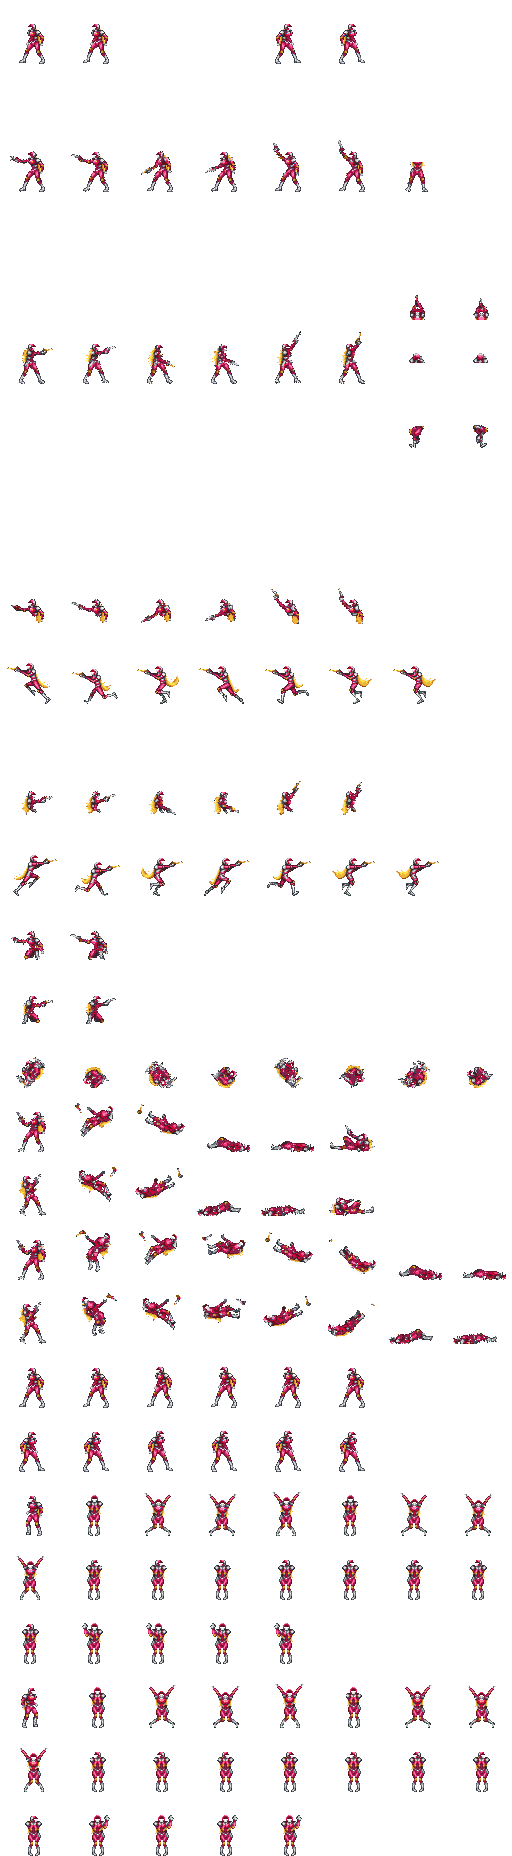
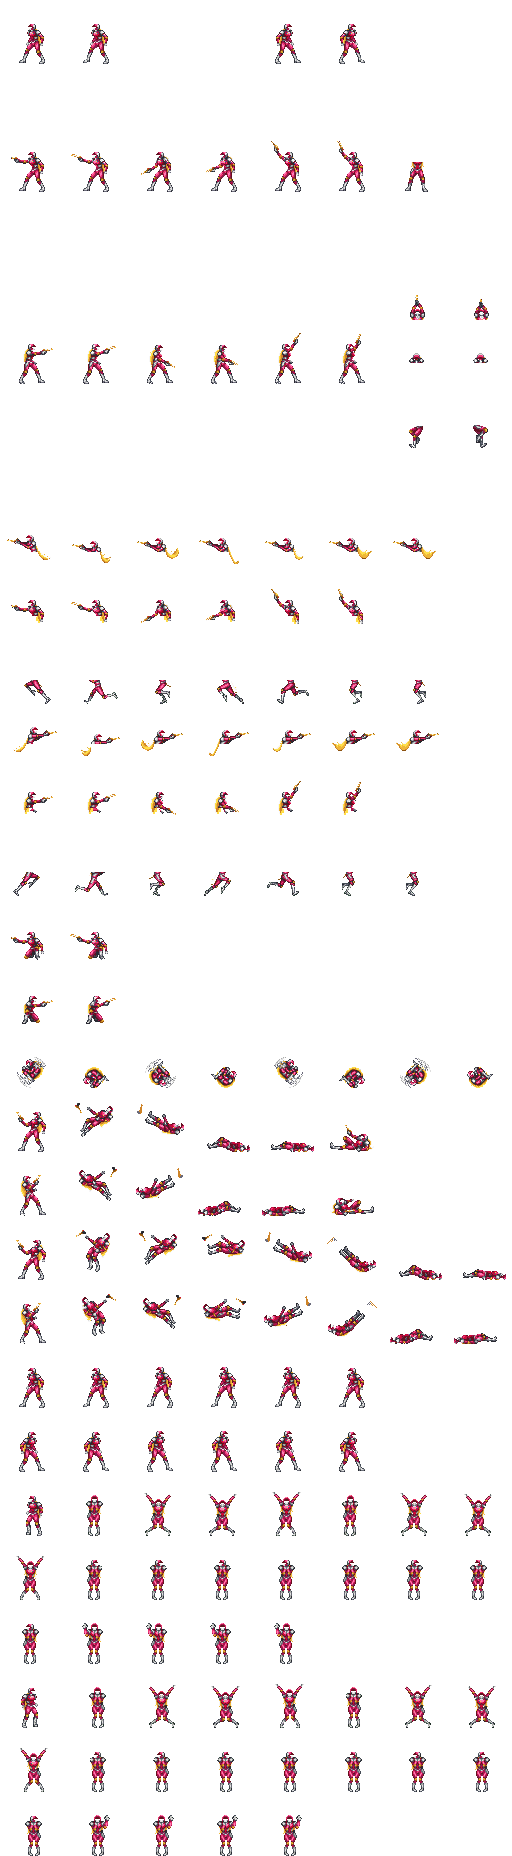
April: learned recovery of the sheet (U-Net + joint palette solve), diagonal shots while running
- assets/april.png rebuilt from heroes/output/april_master_learned.png: the archived 700 px
  sheet is a PIL-style bicubic reduction (a = -0.5, 700/1024 x 1137/1664, no phase; the six
  native idle frames in it match to RMSE 2.9), so heroes/learn_inverse.py trains a U-Net on
  the game's own 64x64 sprites degraded with exactly that operator, then solves the whole
  1024x1664 master jointly on the GPU as annealed softmaxes over April's 20-colour palette
  fitted to the AVIF with the net as a weak prior (idle cells: 17 % pixel-identical with the
  old inverse resampling, 94 % now).  Aims, crouch, slide, somersault and deaths are pixel art
  again; the ICM per-cell refinement is dropped (it only found worse local minima)
- run frames are split at the master's hip line (row 40) into legs cells and torso overlay
  cells (torso = upper half + the whole ponytail), so plain running composes back to the exact
  clip pixels while up / down diagonal aims on the move draw the sheet's aim torsos over the
  clip legs: walk_aim_ov becomes WALK_AIM_ALL / DIAG / NONE (Fireball keeps ALL, April DIAG)
- Character.ov_sync (April): a torso overlay with the legs' frame count and rate starts in
  phase with the legs, so the run torso always sits on its own legs frame after an aim

diff --git a/src/character.c b/src/character.c
@@ -32,7 +32,7 @@ bool character_init(Character *c, uint32_t crhc_id, bool enemy)
     c->hp_max = rd32(d + 0xadc);
     { const PackEntry *se = packs_find(c->sprite_id); if (se && se->type == RES_SPRITE) c->spr = sprite_get(c->sprite_id); else c->cb = cblock_get(c->sprite_id); }
     c->torso_bob = true;
-    c->bored_anim[0] = c->bored_anim[1] = -1; c->walk_aim_ov = true;
+    c->bored_anim[0] = c->bored_anim[1] = -1; c->walk_aim_ov = WALK_AIM_ALL; c->ov_sync = false;
     hero_apply(c);                 /* player heroes only: recreated sheets (April) replace the pack's cblock + patch the table */
     c->body.ox = c->box_ox; c->body.oy = c->box_oy; c->body.hx = c->box_hx; c->body.hy = c->box_hy;
     character_reset(c, enemy);
@@ -106,7 +106,13 @@ void character_set_anim(Character *c, int anim)
 void character_set_overlay(Character *c, int anim)
 {
     if (anim < 0 || anim >= CHAR_MAX_ANIMS) return;
-    if (c->overlay != anim) { c->overlay = (uint8_t)anim; c->ov_frame = c->anims[anim].first; c->ov_t = 0; }
+    if (c->overlay != anim) {
+        const AnimDef *o = &c->anims[anim], *a = &c->anims[c->anim];
+        c->overlay = (uint8_t)anim; c->ov_frame = o->first; c->ov_t = 0;
+        if (c->ov_sync && o->last - o->first == a->last - a->first && o->frame_time == a->frame_time) {
+            c->ov_frame = o->first + (c->frame - a->first); c->ov_t = c->anim_t;
+        }
+    }
     uint32_t af = c->anim_flags[anim];
     if (af & 1) {
         float mx = c->muzzle[anim][0], my = c->muzzle[anim][1], x, y;
@@ -270,7 +276,7 @@ void player_resolve(Character *c, float dt)
         break;
     case CS_WALK:
         body = L ? 0x24 : 0x25; vx = L ? -c->speed : c->speed;
-        if (!c->walk_aim_ov) ov = L ? 0x26 : 0x27;
+        if (c->walk_aim_ov == WALK_AIM_NONE || (c->walk_aim_ov == WALK_AIM_DIAG && aim != AIM_UL && aim != AIM_DL && aim != AIM_UR && aim != AIM_DR)) ov = L ? 0x26 : 0x27;
         else if (L) ov = shoot ? (aim == 1 ? 0x1d : aim == 7 ? 0x1e : 0x1c) : (aim == 1 ? 0x15 : aim == 7 ? 0x16 : 0x26);
         else   ov = shoot ? (aim == 3 ? 0x20 : aim == 5 ? 0x21 : 0x1f) : (aim == 3 ? 0x18 : aim == 5 ? 0x19 : 0x27);
         c->flags &= ~CF_CROUCH;

diff --git a/src/heroes.c b/src/heroes.c
@@ -37,7 +37,7 @@ const char *hero_name(int character)
 }
 
 /* animation table changes: April's clip has a 6-frame idle sway followed by a 20-frame crouch + jumping jacks + wave
- * (10 fps; played once after 10 s of idling), 7 whole run frames (kept while aiming / shooting on the move) and 8
+ * (10 fps; played once after 10 s of idling), 7 run frames (legs + torso overlay cells, both from the clip) and 8
  * death frames.  The "alert" pose (anims 4/7, held for
  * alert_time after shooting / landing) is the sway itself: her sheet has no clean alert art. */
 typedef struct { int anim, first, last, loop; float frame_time; } AnimPatch;
@@ -48,7 +48,7 @@ static const AnimPatch APRIL_ANIMS[] = {
     { 4, 168, 173, 168, 0.10f }, { 7, 176, 181, 176, 0.10f },     /* alert L / R = idle */
     { APRIL_BORED_L, 184, 204, 204, 0.10f }, { APRIL_BORED_R, 208, 228, 228, 0.10f },   /* bored jump + wave L / R */
     { 36, 80, 86, 80, 0.10f }, { 37, 104, 110, 104, 0.10f },      /* run legs L / R */
-    { 38, 64, 70, 64, 0.10f }, { 39, 88, 94, 88, 0.10f },         /* run torso overlays L / R */
+    { 38, 64, 70, 64, 0.10f }, { 39, 88, 94, 88, 0.10f },         /* run torso overlays L / R (the clip frames' upper half + ponytail) */
     { 50, 152, 159, 159, 0.10f }, { 51, 160, 167, 167, 0.10f },   /* death L / R */
     { 52, 168, 168, 168, 4.0f },
 };
@@ -90,7 +90,8 @@ bool hero_apply(Character *c)
     if (!cb) return false;
     c->cb = cb; c->spr = NULL;
     c->torso_bob = false;      /* Fireball's run legs bob 1 px on cells 2 and 5; April's do not */
-    c->walk_aim_ov = false;    /* her run frames are whole clip frames; no aim torso is composed over them */
+    c->ov_sync = true;         /* run torso frame k belongs on run legs frame k */
+    c->walk_aim_ov = WALK_AIM_DIAG;   /* the run torso (clip pixels, gun held level) stays for level shots; up / down diagonals use the sheet's aim torsos over the clip legs */
     for (size_t i = 0; i < sizeof APRIL_ANIMS / sizeof *APRIL_ANIMS; i++) {
         const AnimPatch *p = &APRIL_ANIMS[i];
         AnimDef *a = &c->anims[p->anim];

diff --git a/src/character.h b/src/character.h
@@ -20,6 +20,7 @@ typedef struct { float ox, oy, hw, hh; } HurtBox;
 
 #define CHAR_CRHC_ANIMS 53          /* entries in the CRHC table */
 #define CHAR_MAX_ANIMS 56           /* + slots for recreated heroes' extra animations (heroes.c) */
+enum { WALK_AIM_ALL, WALK_AIM_DIAG, WALK_AIM_NONE };   /* torso overlays while walking: every aim (Fireball), only the up / down diagonals (April: her run torso already holds the gun level), never */
 
 typedef struct {
     /* definition (from CRHC) */
@@ -45,7 +46,8 @@ typedef struct {
     float hit_t;
     bool walk_bob;              /* player walk cycle: torso follows the legs' 1 px bob (FUN_0041c530) */
     bool torso_bob;             /* the sheet's run legs sit 1 px lower on cells 2 and 5 (Fireball's art) */
-    bool walk_aim_ov;           /* aim / shoot torso overlays while walking (Fireball); false: keep the run overlay (April's whole-frame run) */
+    uint8_t walk_aim_ov;        /* WALK_AIM_*: which aim / shoot torso overlays replace the run torso while walking */
+    bool ov_sync;               /* a torso overlay with the legs' frame count and rate starts in phase with the legs (April: the run torso is the clip frames' upper half, so it must sit on its own legs frame) */
     int bored_anim[2];          /* L/R animation played once after idling for bored_time seconds (-1: none; April's stretch) */
     float bored_time, idle_t;
     float base_ox, base_oy;   /* +0x1c/+0x20 */

diff --git a/README.md b/README.md
@@ -21,9 +21,12 @@ archived sprite sheet and tweet clips by `../heroes/`, loaded by `src/heroes.c` 
 `79260A58`; the level-1 dialogs are rewritten for her; her "OK!" on the character select and her jump / hurt / death /
 fall grunts in `assets/voice/` replace Fireball's table samples on the same events and were generated with OmniVoice,
 cloned from her cartoon voice, by `../heroes/voice/generate.py`).
-Her idle sway (6 frames, also her alert pose), run cycle (7 whole frames, kept while shooting on the move) and the
-jumping jacks + wave she plays after 10 s of standing still are the artist's own clip frames; the rest of the sheet is
-reconstructed. Saber Rider and Colt stay "not available". Assets are looked up in
+Her idle sway (6 frames, also her alert pose), run cycle (7 frames, split at the hip into legs and torso overlay so
+level shots on the move keep the clip pixels while the up / down diagonals draw the sheet's aim torsos over the clip
+legs) and the jumping jacks + wave she plays after 10 s of standing still are the artist's own clip frames; the rest
+of the sheet is recovered from the archived 700 px sheet by `../heroes/learn_inverse.py` (a U-Net trained on the
+game's own sprites under the sheet's exact bicubic downscale, then a joint palette solve against the sheet).
+Saber Rider and Colt stay "not available". Assets are looked up in
 `$SABER_ASSETS`, `./assets` and next to the executable.
 
 ## Controls (as in the demo)
